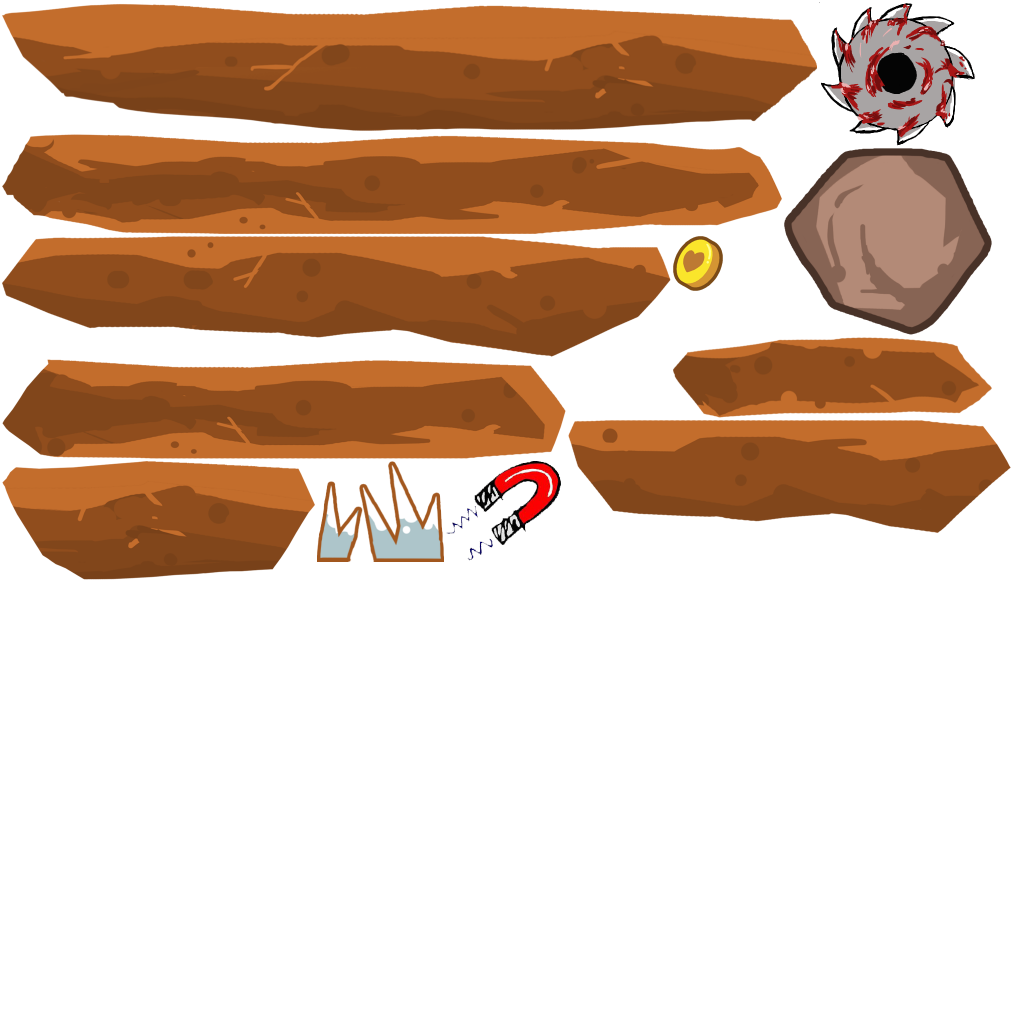
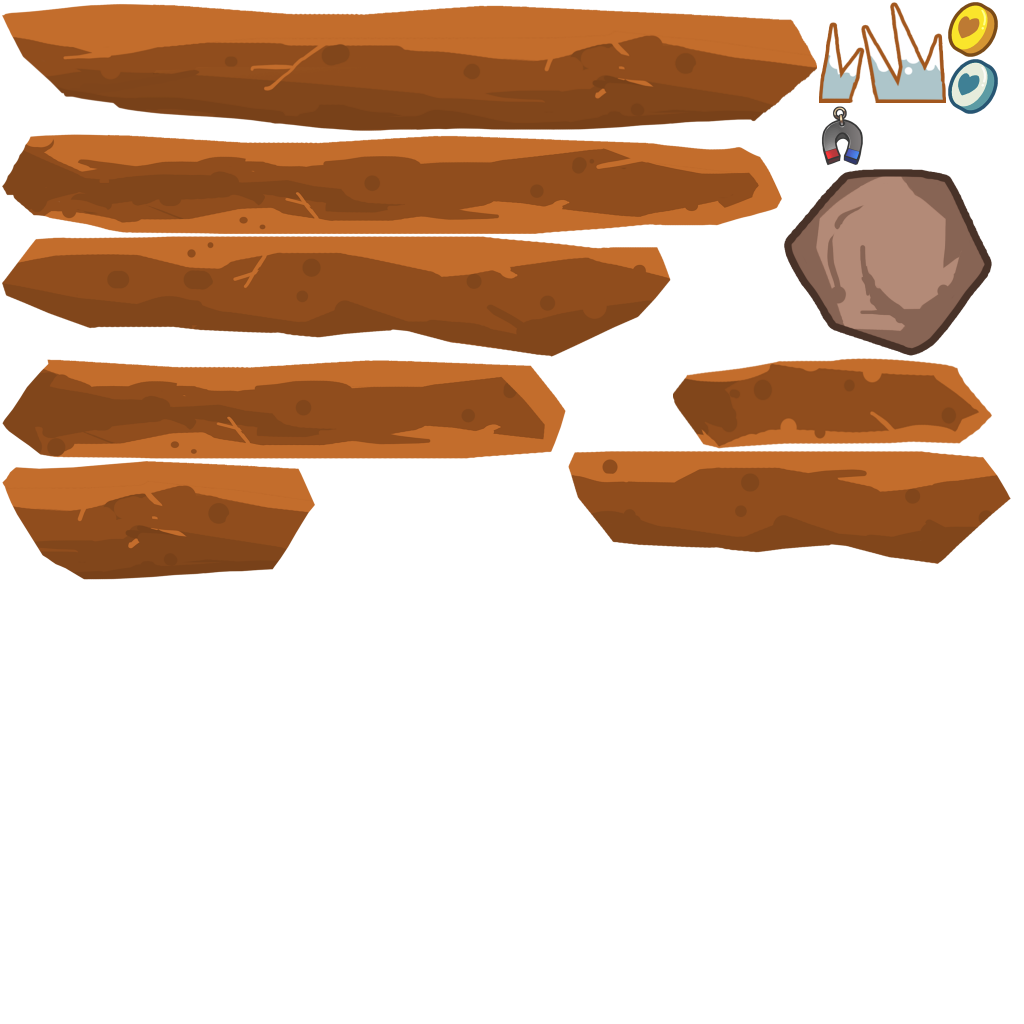
修改资源，修改金币逻辑

Changed region(s): [[0.4688, 0.0, 1.0, 0.5625], [0.3125, 0.4375, 0.4375, 0.5625], [0.6562, 0.2188, 0.7188, 0.2812]]

diff --git a/LibSouSouSou/Hero.mm b/LibSouSouSou/Hero.mm
@@ -274,7 +274,7 @@ bool play_dead = false;
     if ( [ other isKindOfClass:[SCoin class] ] )
     {
         [other remove_from_game:true];
-        m_score += 10;
+        m_score += [(SCoin*)other get_points];
     }
     return 1;
 }
@@ -325,7 +325,7 @@ bool play_dead = false;
     //if ( [self get_physic_position:0].x < 100 )
     [ self apply_force_center:0 :get_global_config().ninja_push_force force_y:0];
     float s = [((GameSouSouSouLevel*)[GameBase get_game].m_level) get_move_speed ];
-    m_score += s * delta_time;
+    m_score += (s * delta_time)*0.1;
     
     /*
      debug ---

diff --git a/LibSouSouSou/SCoin.mm b/LibSouSouSou/SCoin.mm
@@ -28,11 +28,17 @@
     return  0;
 }
 
+-(float) get_points
+{
+    return m_points;
+}
+
 -(id) init_with_spawn_params:(NSDictionary*) params
 {
     self = [super init_with_spawn_params:params];
     [ self set_batchable:true];
         m_time_before_remove_outof_actrange_ = 0.1;
+    m_points = read_float_value(params, @"points", 1);
     return self;
 }
 

diff --git a/LibSouSouSou/GameSouSouSou.mm b/LibSouSouSou/GameSouSouSou.mm
@@ -68,6 +68,8 @@
 	[super init_game];
     m_level_ = [GameSouSouSouLevel new];
     [ m_level_ reset];
+    [[GameBase get_game].m_scene setScale:0.5];
+    [[GameBase get_game].m_scene setPosition:ccp(0,-100)];
 
 }
 

diff --git a/LibSouSouSou/SCoin.h b/LibSouSouSou/SCoin.h
@@ -12,6 +12,10 @@
 {
     bool m_attracted;
     float m_attracted_time;
+    float m_points;
 }
+
+-(float) get_points;
+
 @end
 
